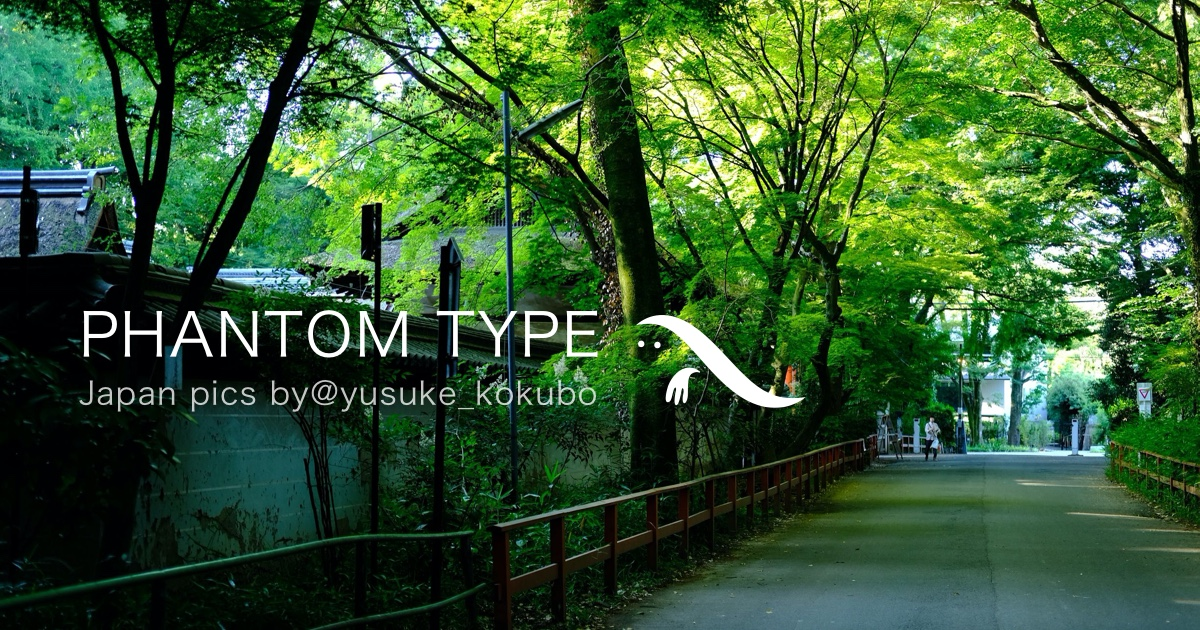
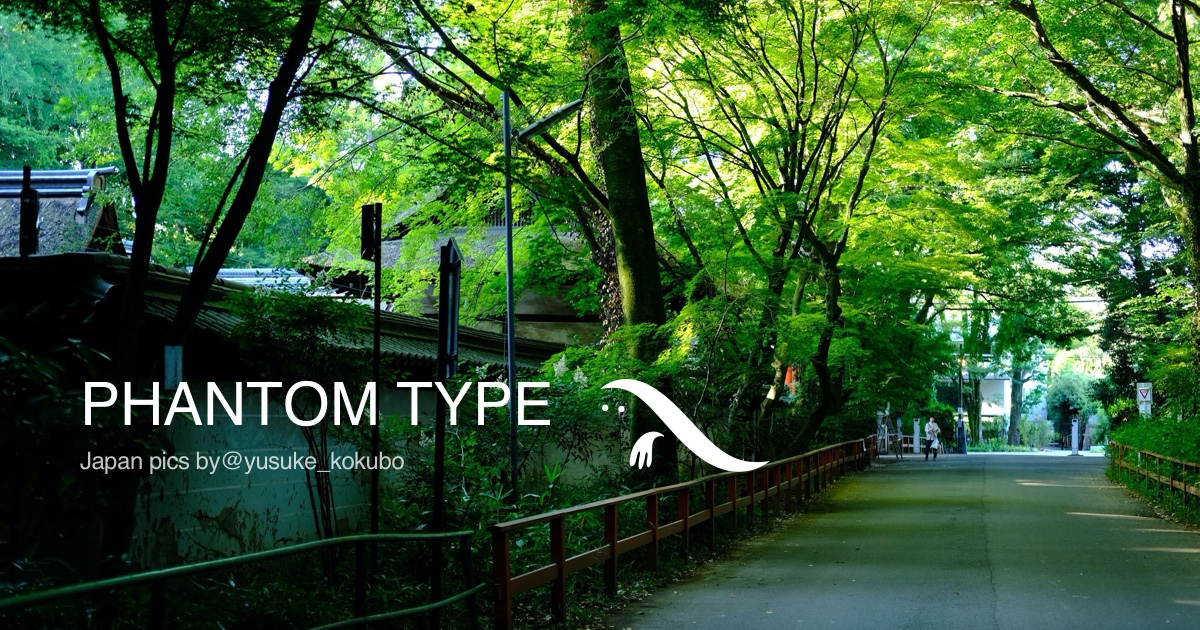
tweak css

diff --git a/src/pages/index.tsx b/src/pages/index.tsx
@@ -16,16 +16,20 @@ export default () => {
       </picture>
       <section className='absolute w-screen h-screen flex flex-col-reverse justify-around'>
         <div className='mx-8 lg:mx-16 grid grid-cols-1 gap-16'>
-          <div>
-            <h1 className='font-light text-5xl leading-none'>PHANTOM TYPE
-            <img className='inline w-20 mx-4' src='/logomark-white.svg' alt='phantomtype logo' />
+          <div className='flex'>
+            <div>
+              <h1 className='font-light text-5xl leading-none'>PHANTOM TYPE
             </h1>
-            <p className='font-light text-xl mt-2'>Japan Pics by
-            <a target='_blank'
-                className='font-normal mx-1'
-                rel='noopener'
-                href='https://twitter.com/yusuke_kokubo'>@yusuke_kokubo</a>
-            </p>
+              <p className='font-light text-xl mt-2'>Japan Pics by
+                <a target='_blank'
+                  className='font-normal mx-1'
+                  rel='noopener'
+                  href='https://twitter.com/yusuke_kokubo'>@yusuke_kokubo</a>
+              </p>
+            </div>
+            <div>
+              <img className='inline w-32 mx-4' src='/logomark-white.svg' alt='phantomtype logo' />
+            </div>
           </div>
           <Nav />
         </div>
